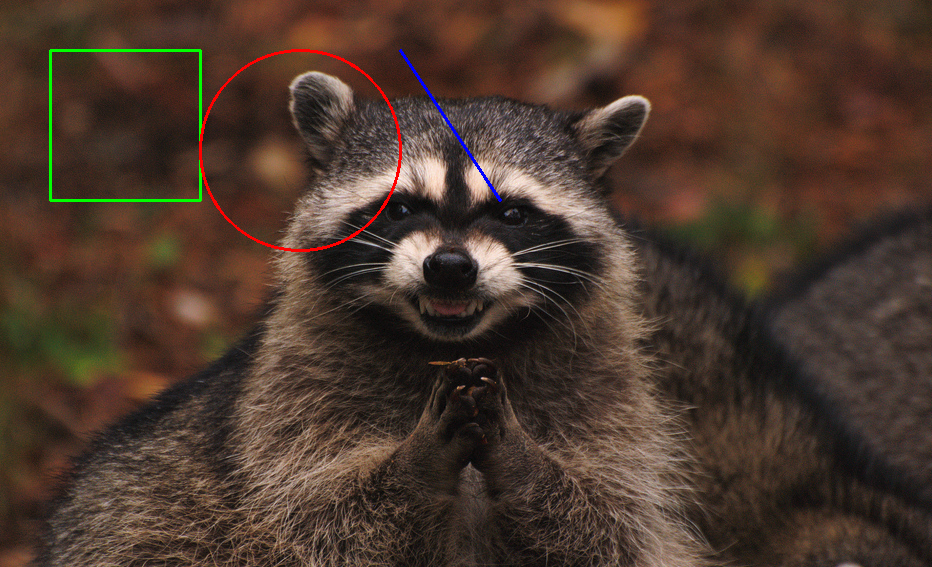
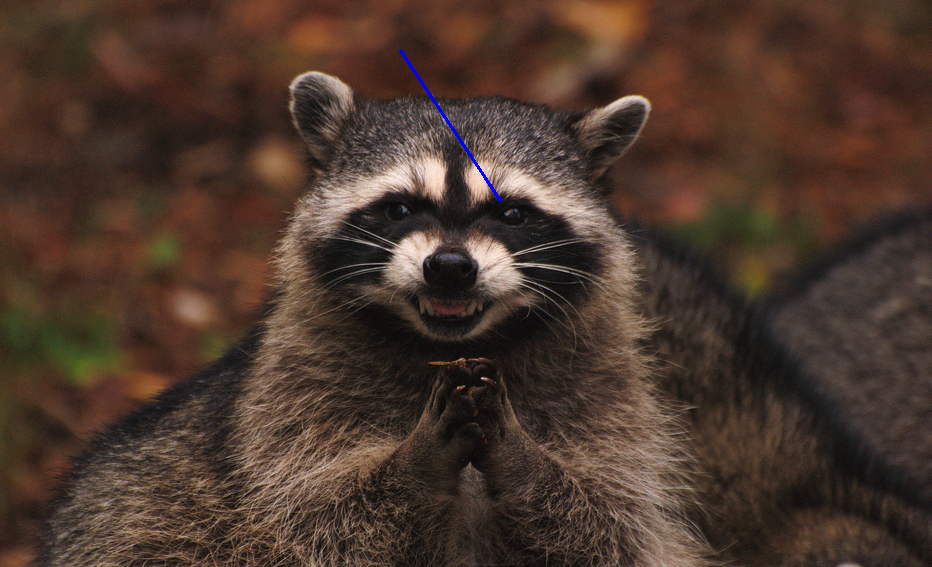
Este es para la expo XD

diff --git a/menu.py b/menu.py
@@ -1,4 +1,4 @@
-import cv2
+import cv2, os
 import numpy as np
 import matplotlib.pyplot as plt
 
@@ -35,54 +35,77 @@ def girar_imagen(img):
     else:
         print("No se pudo cargar la imagen.")
 
-def recortar_imagen(img):
+def recortar_imagen(img, x_inicio, x_fin, y_inicio, y_fin):
     if img is not None:
-        x_inicio, x_fin = 300, 600
-        y_inicio, y_fin = 200, 400 
-        roi_recortada = img[y_inicio:y_fin, x_inicio:x_fin]
-        cv2.imshow("Imagen Recortada", roi_recortada)
-        cv2.imwrite("racoon_recortada.png", roi_recortada)
-        cv2.waitKey(0)
-        cv2.destroyAllWindows() 
-        plt.imshow(roi_recortada)
+        alto, ancho, _ = img.shape
+        
+        # Verificar si los valores de recorte están dentro de los límites de la imagen
+        if x_inicio >= 0 and x_fin <= ancho and y_inicio >= 0 and y_fin <= alto:
+            roi_recortada = img[y_inicio:y_fin, x_inicio:x_fin]
+            cv2.imshow("Imagen Recortada", roi_recortada)
+            cv2.imwrite("racoon_recortada.png", roi_recortada)
+            cv2.waitKey(0)
+            cv2.destroyAllWindows() 
+            plt.imshow(roi_recortada)
+            plt.show()
+        else:
+            print("Los valores de recorte están fuera de los límites de la imagen.")
     else:
         print("No se pudo cargar la imagen.")
 
-def agregar_texto(img):
+def agregar_texto(img, texto):
     if img is not None:
-        texto = "La respuesta de la vida es 42"
         coordenadas_inicio = (50, 50)
         fuente = cv2.FONT_HERSHEY_SIMPLEX
         tamaño_fuente = 1
         color_texto = (255, 0, 0) 
-        img_con_texto = cv2.putText(img, texto, coordenadas_inicio, fuente, tamaño_fuente, color_texto, thickness=2)
-        cv2.imwrite("racoon_con_texto.png", img_con_texto)
+        img_con_texto = cv2.putText(img.copy(), texto, coordenadas_inicio, fuente, tamaño_fuente, color_texto, thickness=2)
         cv2.imshow("Imagen con Texto", img_con_texto)
+        cv2.imwrite("racoon_con_texto.png", img_con_texto)
         cv2.waitKey(0)
         cv2.destroyAllWindows() 
         plt.imshow(img_con_texto)
+        plt.show()
     else:
         print("No se pudo cargar la imagen.")
 
-def dibujar_formas(img):
+def dibujar_formas(img, opcion):
     if img is not None:
-        cv2.rectangle(img, (50, 50), (200, 200), (0, 255, 0), thickness=2)  
-        cv2.circle(img, (300, 150), 100, (0, 0, 255), thickness=2)  
-        cv2.line(img, (400, 50), (500, 200), (255, 0, 0), thickness=2)  
+        if opcion == "1":  # Rectángulo
+            cv2.rectangle(img, (50, 50), (200, 200), (0, 255, 0), thickness=2)  
+        elif opcion == "2":  # Círculo
+            cv2.circle(img, (300, 150), 100, (0, 0, 255), thickness=2)  
+        elif opcion == "3":  # Línea
+            cv2.line(img, (400, 50), (500, 200), (255, 0, 0), thickness=2)  
+        else:
+            print("Opción de figura no válida.")
+            return
+
         cv2.imwrite("racoon_con_formas.png", img)
         cv2.imshow("Imagen con Formas", img)
         cv2.waitKey(0)
         cv2.destroyAllWindows() 
         plt.imshow(img)
+        plt.show()
     else:
         print("No se pudo cargar la imagen.")
-
 def detectar_rostros_camara():
     captura_rostro = cv2.CascadeClassifier(cv2.data.haarcascades + "haarcascade_frontalface_default.xml")
     camara = cv2.VideoCapture(0)
     if not camara.isOpened():
         print("No se pudo abrir la cámara.")
         return
+    
+    grabando = False
+    contador_rostros = 0
+    ancho_video = int(camara.get(cv2.CAP_PROP_FRAME_WIDTH))
+    alto_video = int(camara.get(cv2.CAP_PROP_FRAME_HEIGHT))
+    fps_video = int(camara.get(cv2.CAP_PROP_FPS))
+    
+    directorio_salida = "videos_rostros"
+    if not os.path.exists(directorio_salida):
+        os.makedirs(directorio_salida)
+
     while True:
         ret, frame = camara.read()
         if not ret:
@@ -90,11 +113,30 @@ def detectar_rostros_camara():
             break
         frame_gris = cv2.cvtColor(frame, cv2.COLOR_BGR2GRAY)
         rostros = captura_rostro.detectMultiScale(frame_gris, scaleFactor=1.1, minNeighbors=5, minSize=(30, 30))
+        
+        if len(rostros) > 0:  # Si se detecta al menos un rostro
+            if not grabando:
+                contador_rostros += 1
+                nombre_video = f"rostro_{contador_rostros}.avi"
+                ruta_video = os.path.join(directorio_salida, nombre_video)
+                out = cv2.VideoWriter(ruta_video, cv2.VideoWriter_fourcc(*'XVID'), fps_video, (ancho_video, alto_video))
+                grabando = True
+        else:
+            grabando = False
+
+        if grabando:
+            out.write(frame)
+
         for (x, y, w, h) in rostros:
             cv2.rectangle(frame, (x, y), (x+w, y+h), (255, 0, 0), thickness=2)
+        
         cv2.imshow("Detección de Rostros", frame)
-        if cv2.waitKey(1) & 0xFF == ord('q'):
+        key = cv2.waitKey(1) & 0xFF
+        if key == ord('s'):  # Si se presiona la tecla 's', apagar la cámara
             break
+    
+    if grabando:
+        out.release()
     camara.release()
     cv2.destroyAllWindows()
 
@@ -112,6 +154,7 @@ def main():
     while True:
         menu()
         opcion = input("Ingrese el número de la opción deseada: ")
+        # SI NO FUNCIONA LLAME A 67169546 
         if opcion == "0":
             print("Saliendo del programa...")
             break
@@ -124,15 +167,21 @@ def main():
             girar_imagen(img)
         elif opcion == "3":
             img = cargar_imagen("racoon.png")
-            recortar_imagen(img)
+            x_inicio = int(input("Ingrese el valor de inicio en x: "))
+            x_fin = int(input("Ingrese el valor de fin en x: "))
+            y_inicio = int(input("Ingrese el valor de inicio en y: "))
+            y_fin = int(input("Ingrese el valor de fin en y: "))
+            recortar_imagen(img, x_inicio, x_fin, y_inicio, y_fin)
         elif opcion == "4":
             img = cargar_imagen("racoon.png")
-            agregar_texto(img)
+            texto = input("Ingrese el texto que desea agregar a la imagen: ")
+            agregar_texto(img, texto)
         elif opcion == "5":
             img = cargar_imagen("racoon.png")
-            dibujar_formas(img)
+            opcion_figura = input("Seleccione la figura que desea dibujar:\n1. Rectángulo\n2. Círculo\n3. Línea\nIngrese el número de la opción deseada: ")
+            dibujar_formas(img, opcion_figura)
         elif opcion == "6":
-            detectar_rostros_camara()
+            detectar_rostros_camara()  # Llamada a la función de detección de rostros con la cámara
         else:
             print("Opción no válida. Por favor, seleccione una opción válida.")
 
